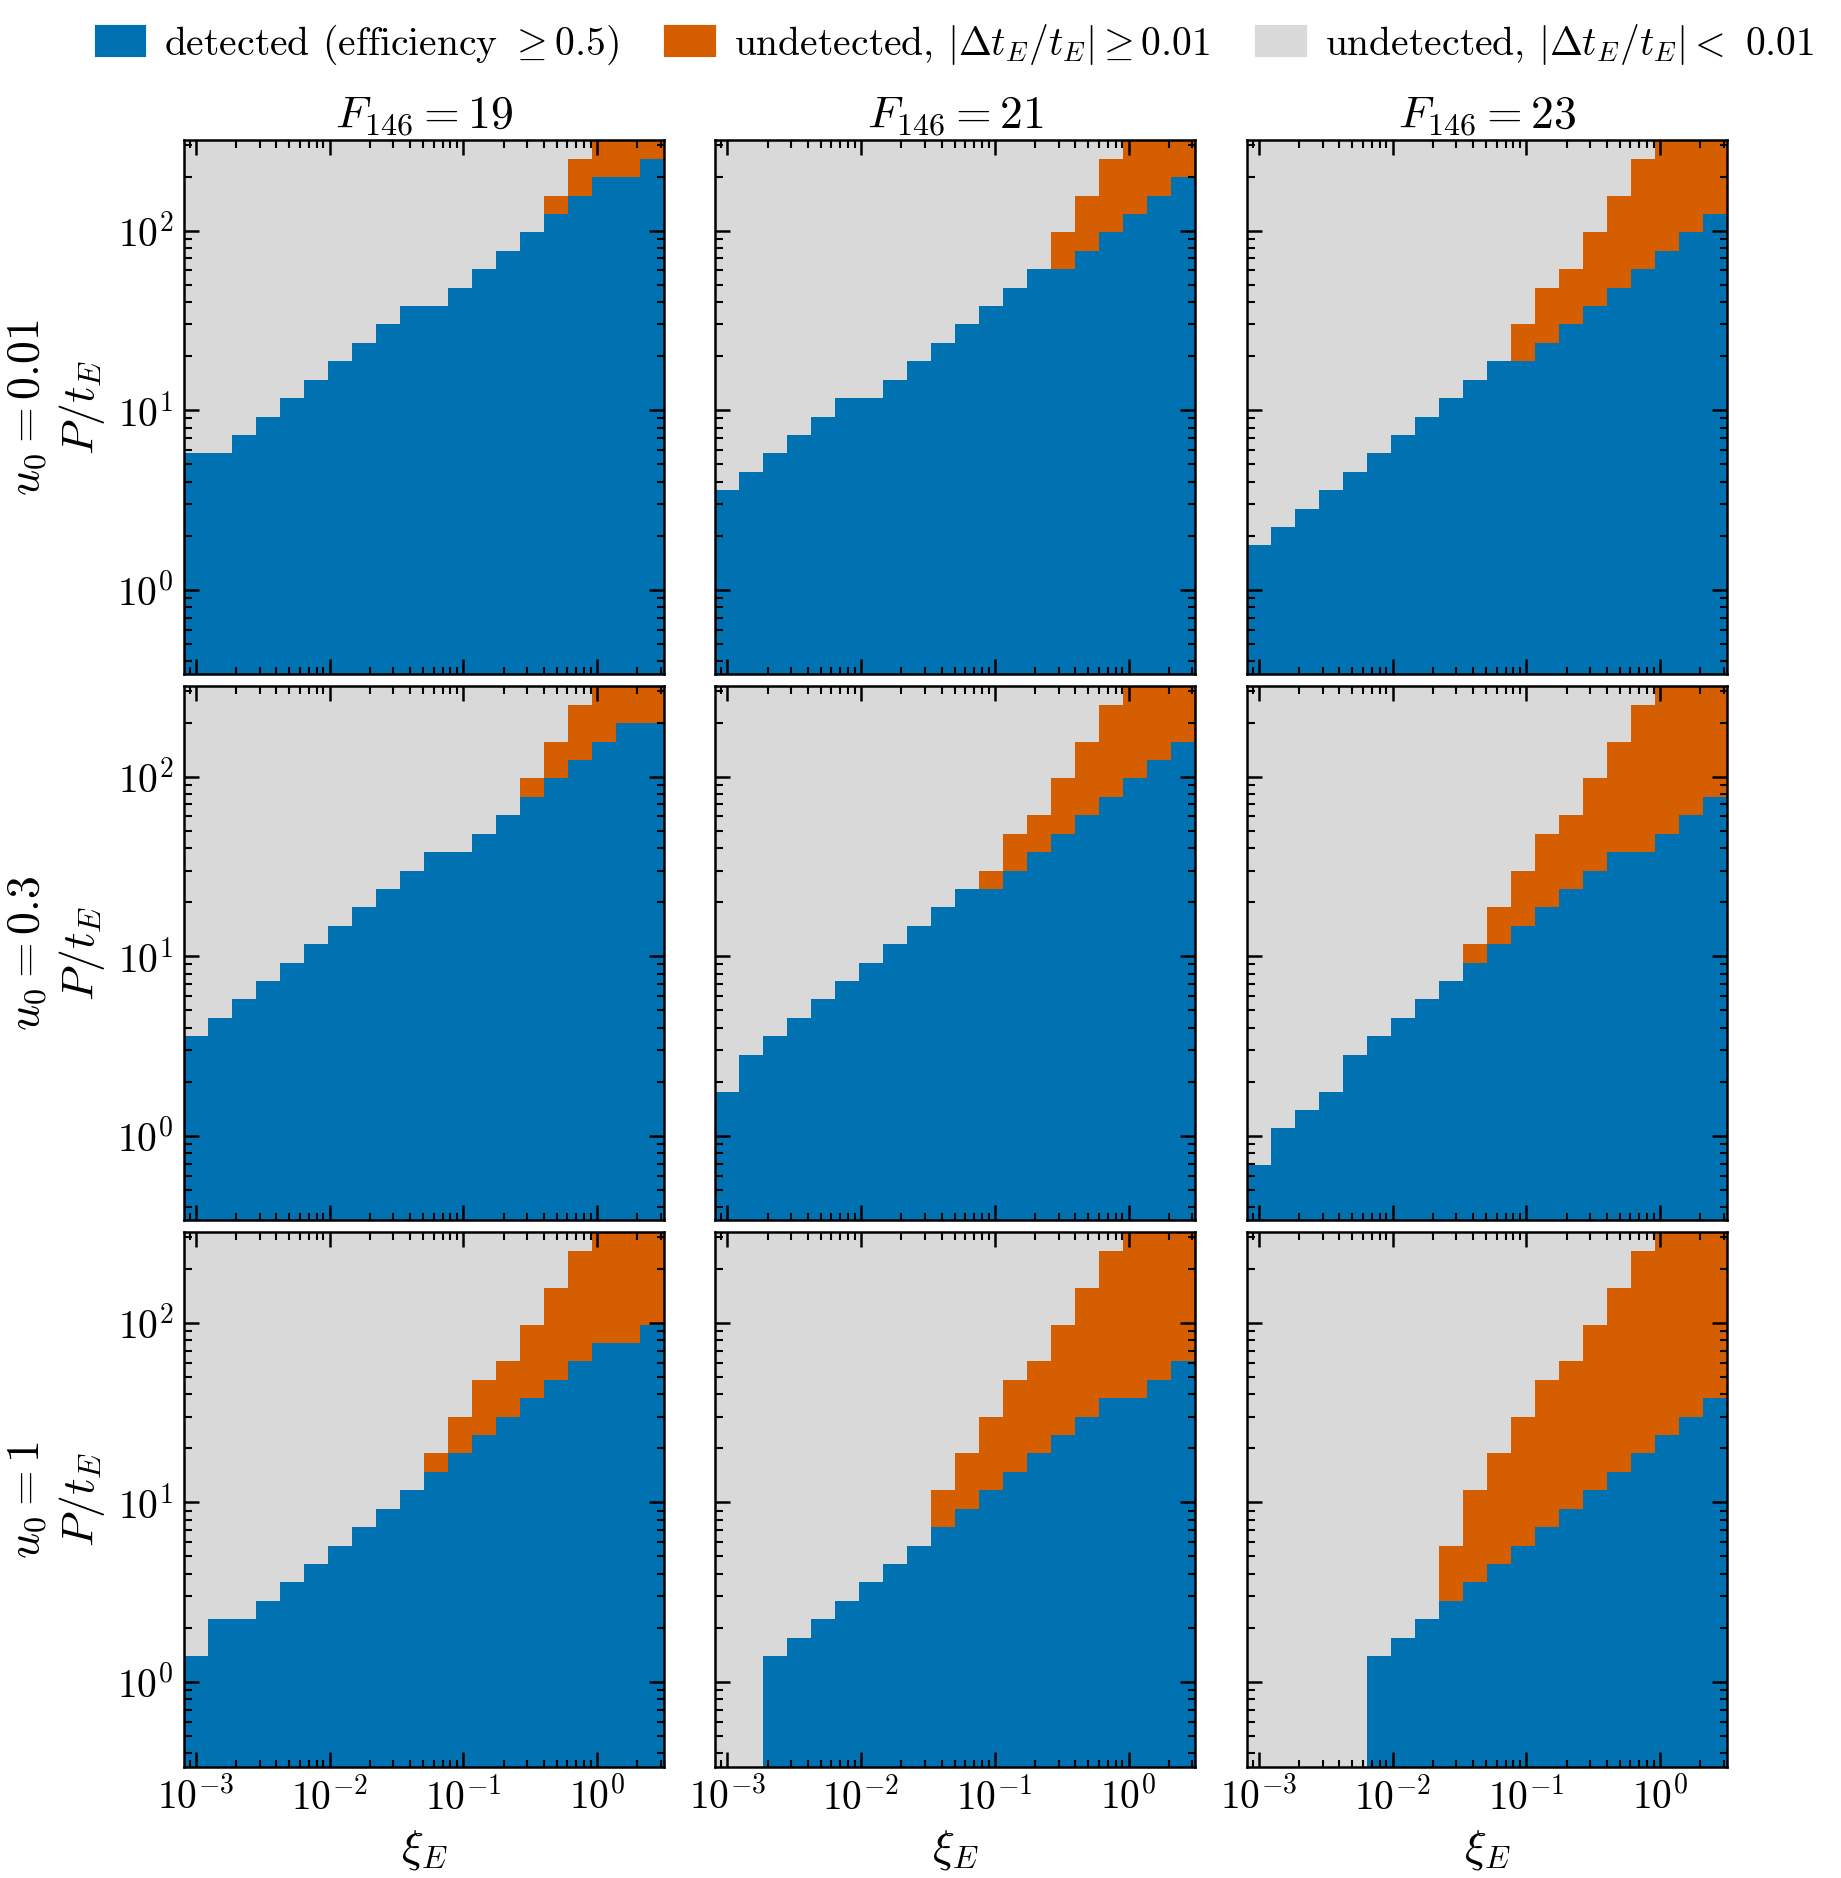
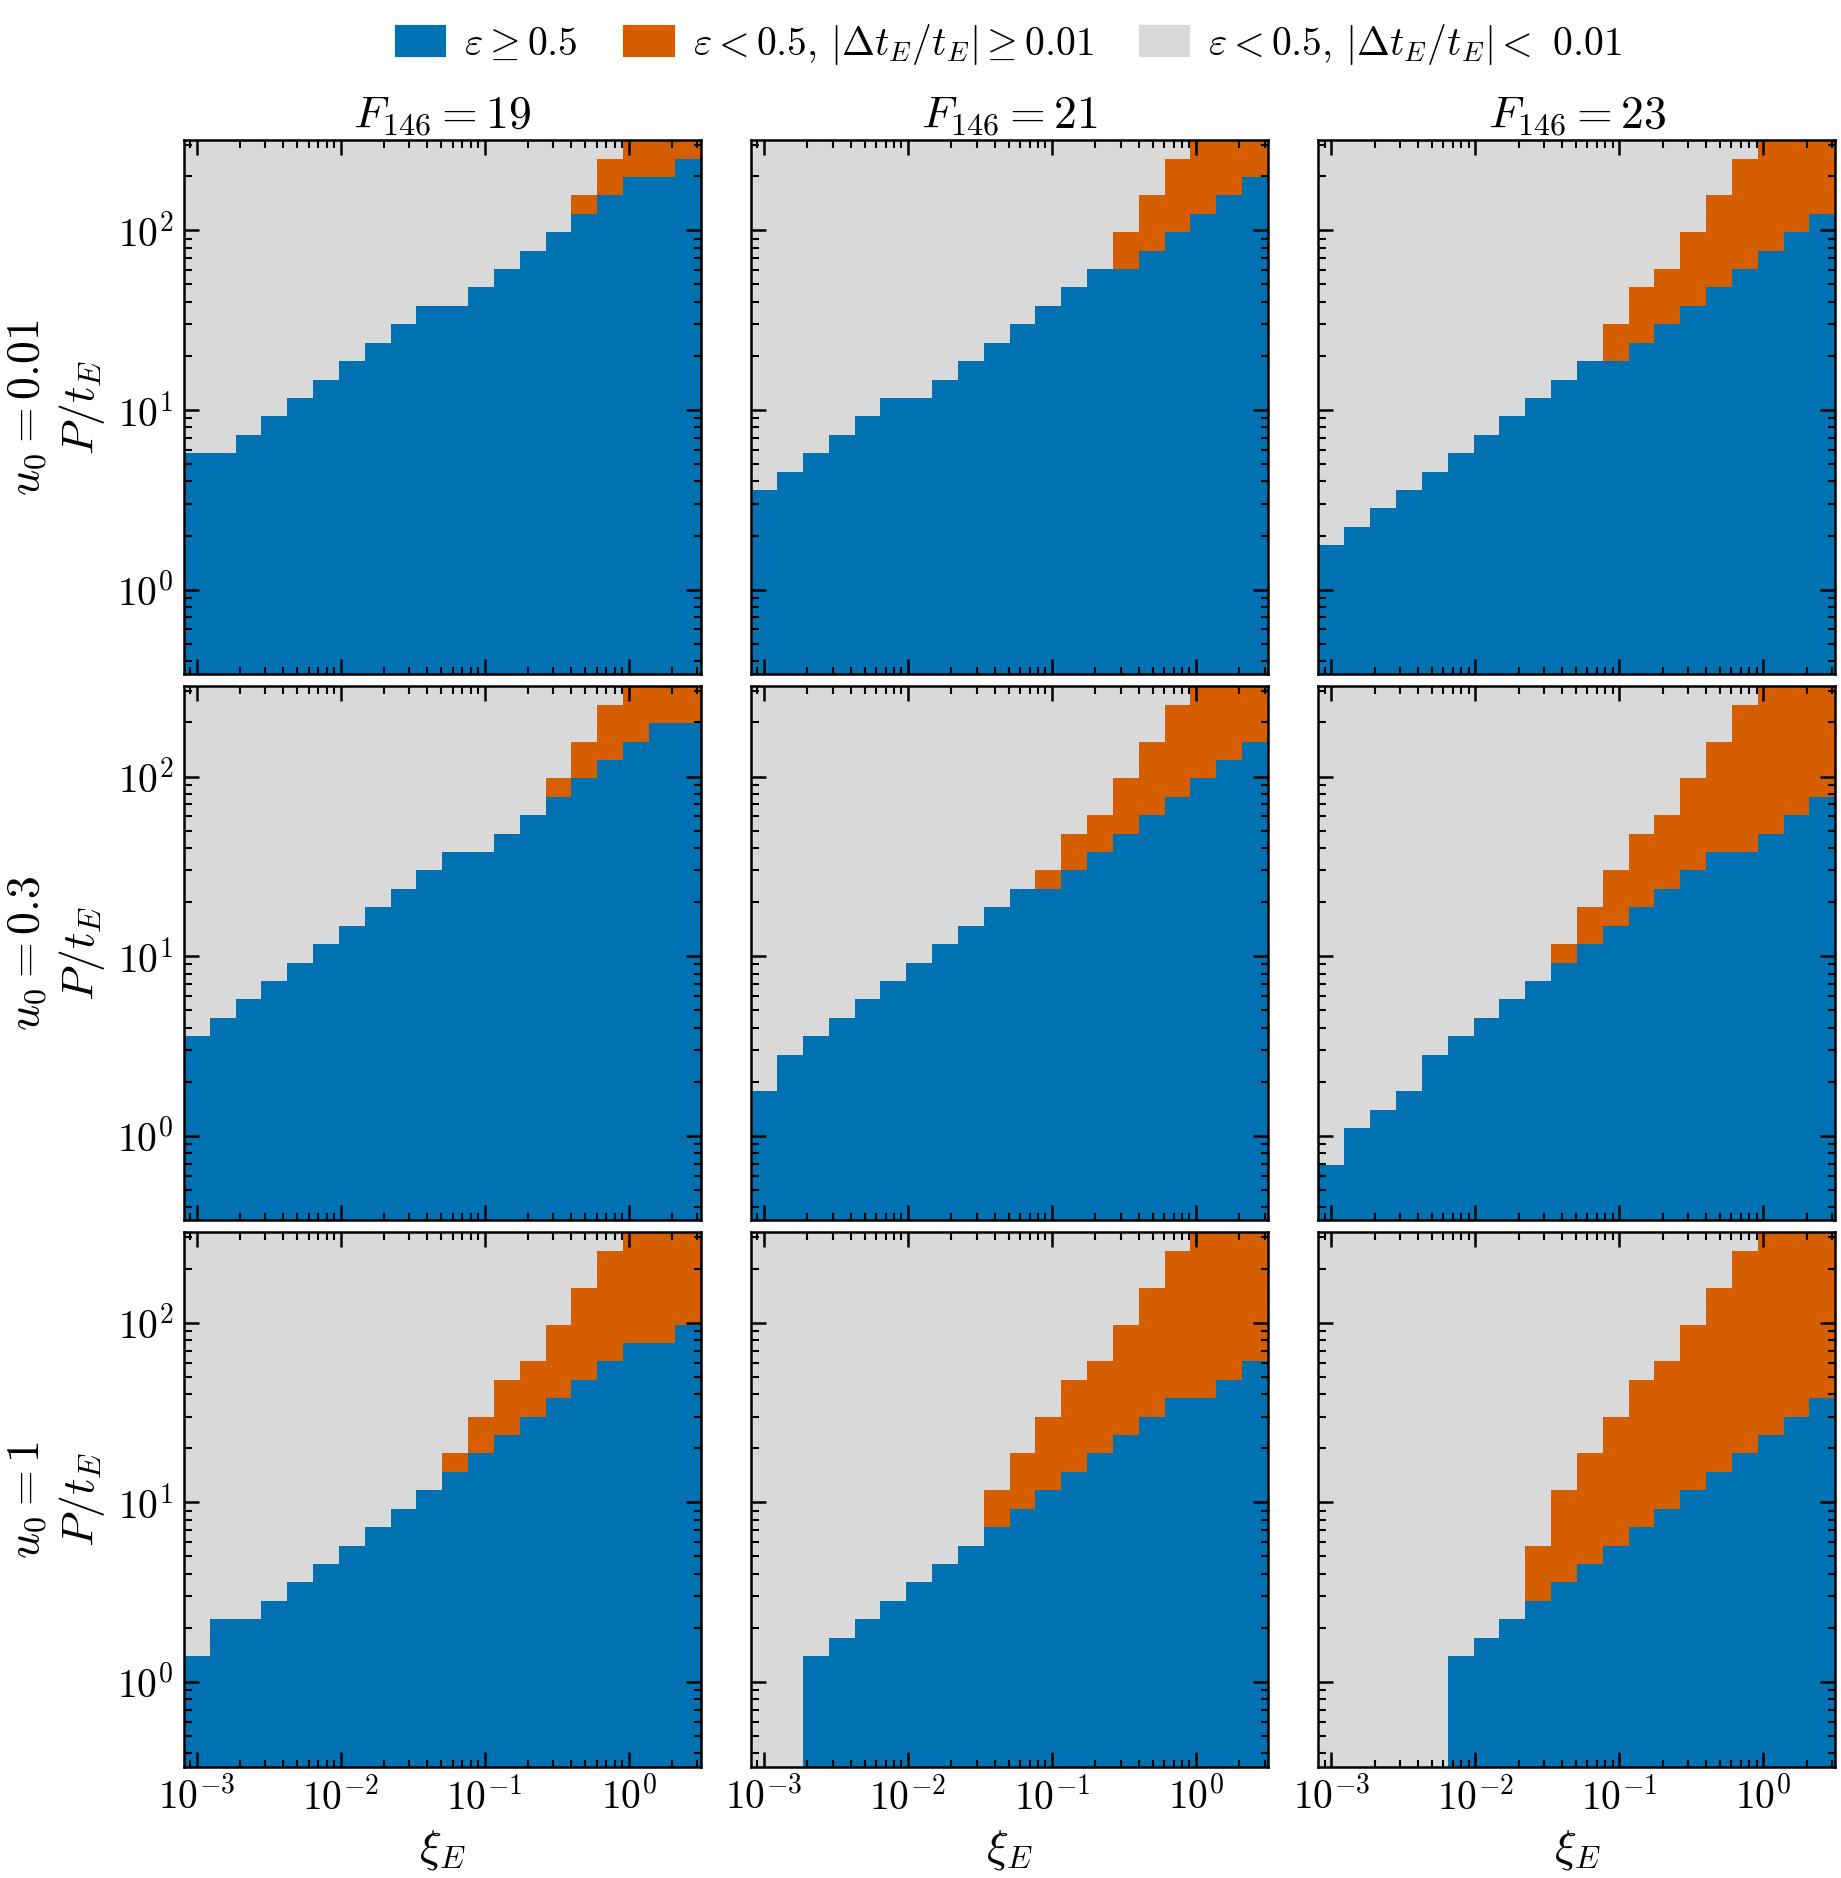
Fig 13: legend in terms of the detection efficiency (epsilon >= 0.5 / < 0.5)

diff --git a/binary_source/plot_codes/plot_sec6_power_xiE_ptE.py b/binary_source/plot_codes/plot_sec6_power_xiE_ptE.py
@@ -246,8 +246,8 @@ def regions_figure(d, summaries, ib, bias_thr, outdir, tex, primary):
                 ax.set_xlabel(L["xi"])
     handles = [plt.Rectangle((0, 0), 1, 1, color=c) for c in (C_BLUE, C_VERMILION, "0.85")]
     thr = rf"$|\Delta t_E/t_E| \geq {bias_thr:g}$"
-    lax.legend(handles, [r"detected (efficiency $\geq 0.5$)", "undetected, " + thr,
-                         r"undetected, $|\Delta t_E/t_E| <$ " + f"{bias_thr:g}"],
+    lax.legend(handles, [r"$\varepsilon \geq 0.5$", r"$\varepsilon < 0.5$, " + thr,
+                         r"$\varepsilon < 0.5$, $|\Delta t_E/t_E| <$ " + f"{bias_thr:g}"],
                loc="center", ncol=3, frameon=False, handlelength=1.2, columnspacing=1.2)
     return save_figure(fig, Path(outdir) / f"sec6_regions_xiE_ptE_g{d['blend_ratio'][ib]:g}")
 
